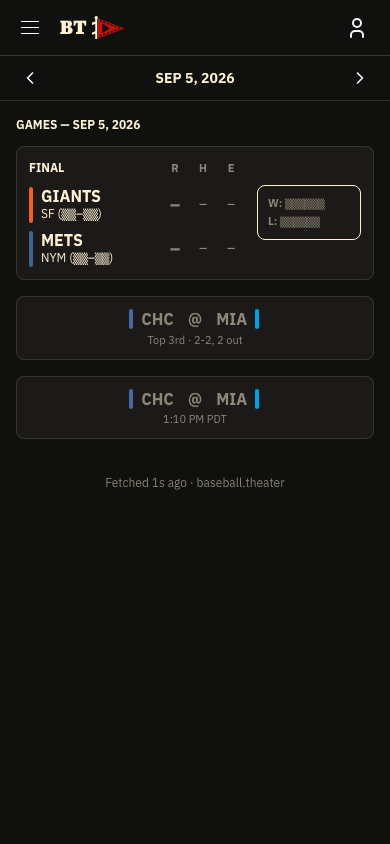
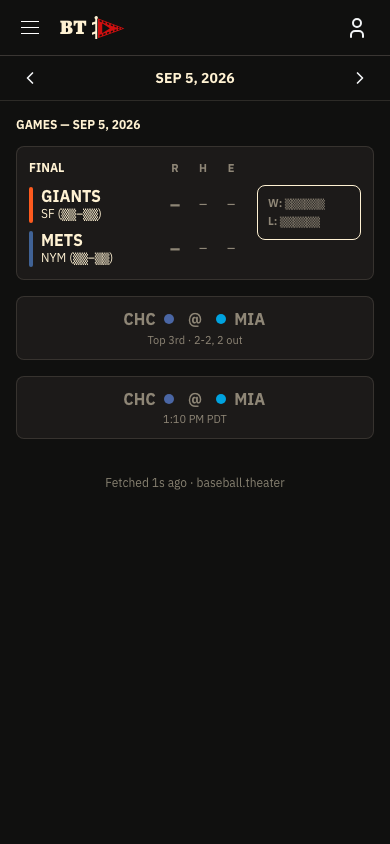
S68 checkpoint (parked for the owner's design match): the collapsed bar's team colors become round swatches inside, by the score (owner, 2026-10-30: "I think I'd like to change the color border in that view into a circle that goes on the inside instead of the outside. like CHC o 1-0 o MIA"). Collaps
Claude-Session: https://claude.ai/code/session_01FZHj4BTD58DQYzKRj8jroB

diff --git a/web/src/components/scoreboard/CollapsedBar.tsx b/web/src/components/scoreboard/CollapsedBar.tsx
@@ -6,26 +6,26 @@ import {
 } from "@bt/domain";
 import { viewerTimeZone } from "../../format/datetime.js";
 import { useScoresHidden } from "../../settings/useScoresHidden.js";
-import { TeamEdge } from "../team/TeamEdge.js";
+import { TeamSwatch } from "../team/TeamSwatch.js";
 import type { ScoreboardGame } from "./ScoreboardModule.js";
 
-/** A team in the bar: its abbreviation with its color swatch on the outer side. */
+/** A team in the bar: its abbreviation with its round color swatch on the inner side, toward the score (owner, 2026-10-30: "CHC o 1-0 o MIA"). */
 function Team({ team, side }: { team: ScoreboardGame["teams"]["away"];
 	side: "away" | "home"; })
 {
 	return (
 		<Group gap={8} wrap="nowrap" h={20} justify={side === "away" ? "flex-end" : "flex-start"}>
-			{side === "away" ? <TeamEdge teamId={team.id} /> : null}
+			{side === "home" ? <TeamSwatch teamId={team.id} /> : null}
 			<Text fw={700} c="var(--bt-muted)">{team.abbreviation}</Text>
-			{side === "home" ? <TeamEdge teamId={team.id} /> : null}
+			{side === "away" ? <TeamSwatch teamId={team.id} /> : null}
 		</Group>
 	);
 }
 
 /**
  * A non-favorite game folded into a slim bar (S68; shell-scoreboard `scoreboard-collapsed-*`,
- * S56 A2, S57 A3), centered in every state (owner, 2026-10-30): `NYY  5–2  BOS`, the
- * teams either side of the score with their color swatches outside, and a muted line
+ * S56 A2, S57 A3), centered in every state (owner, 2026-10-30): `NYY ● 5–2 ● BOS`, the
+ * teams either side of the score with their round color swatches inside, by the score, and a muted line
  * under it — the inning and count while live, `Final` after, the start time before first
  * pitch. With scores hidden, or before any runs, `@` stands where the score would. What
  * it says comes from `collapsedBarState` (`packages/domain`), whose inning reads through

diff --git a/web/src/components/scoreboard/CollapseHide.test.tsx b/web/src/components/scoreboard/CollapseHide.test.tsx
@@ -129,9 +129,11 @@ describe("collapse non-favorites (S68)", () =>
 		expect(modules.map((m) => m.dataset.phase)).toEqual(["live", "pregame"]);
 		const [bar] = screen.getAllByTestId("collapsed-bar");
 		const b = within(bar!);
-		expect(b.getAllByTestId("team-edge")).toHaveLength(2);
-		expect(b.getByText("SF")).toBeInTheDocument();
-		expect(b.getByText("NYM")).toBeInTheDocument();
+		// Round swatches inside, by the score (owner, 2026-10-30: "like CHC o 1-0 o MIA").
+		const order = [b.getByText("SF"), ...b.getAllByTestId("team-swatch"), b.getByText("NYM")];
+		order.slice(1).forEach((node, i) => expect(order[i]!.compareDocumentPosition(node) & Node.DOCUMENT_POSITION_FOLLOWING).toBeTruthy());
+		expect(b.getByTestId("collapsed-score").compareDocumentPosition(order[2]!) & Node.DOCUMENT_POSITION_FOLLOWING).toBeTruthy();
+		expect(b.getByTestId("collapsed-score").compareDocumentPosition(order[1]!) & Node.DOCUMENT_POSITION_PRECEDING).toBeTruthy();
 		expect(b.getByTestId("collapsed-score")).toHaveTextContent("9–5");
 		expect(b.getByTestId("collapsed-state")).toHaveTextContent(/^Final$/);
 	});

diff --git a/e2e/design/S68.spec.ts b/e2e/design/S68.spec.ts
@@ -12,7 +12,7 @@
  * - `scoreboard-collapsed-hidden-nonotice-mobile` (A3 + A4): both on.
  *
  * Owner-directed changes from the frames (2026-10-30): every collapsed bar is centered —
- * `CHC  1–0  MIA`, swatches outside, the inning and count (or Final, or the start time)
+ * `CHC ● 1–0 ● MIA`, round swatches inside, the inning and count (or Final, or the start time)
  * muted underneath — and at medium / desktop the favorite's module spans the row.
  *
  * Expected differences, not judged (owner, 2026-10-28: "Judge only the story's own

diff --git a/docs/v3/BACKLOG.md b/docs/v3/BACKLOG.md
@@ -4112,7 +4112,7 @@ Reuse `shipping_commit` and `reverify_at` from `scripts/lib/reverify.sh` and the
 **Acceptance criteria** (checks `scripts/verify-S68.sh` performs)
 
 1. `scoreboardRows(games, favoriteTeamIds, collapseNonFavorites)` in `packages/domain` marks non-favorite games collapsed; with no favorites nothing collapses (test).
-2. A collapsed bar is centered in every state: the away team (swatch, abbreviation), the score `{away}–{home}` (`@` before any runs or with scores hidden), the home team, and under it a muted line — the inning (S66's `inningLabel`) and the count while live, `Final` after, the start time before first pitch — and it expands to the full module on click (RTL). At medium and desktop, while any game is collapsed, a favorite's module spans the full row (RTL). (Amended by the owner, 2026-10-30: *"on desktop, when the collapsed mode is on, make the favorite one full-width. Also, the collapsed ones shoudl show the score (when it's not hidden) by centering the score with the teams on either side, like: NYY  5 - 2  BOS, with the BSO subtly under it. The collapsed ones should be centered for all states, with the subtle text under it rather than right-aligned."* It said: "A collapsed bar shows swatch, abbreviation and `{away}–{home} · {state}` (state from S66's `inningLabel`, or `Final`; S56 A2 `scoreboard-collapsed-score-mobile.png`) and expands to the full module on click (RTL).")
+2. A collapsed bar is centered in every state: the away team (abbreviation, round swatch), the score `{away}–{home}` (`@` before any runs or with scores hidden), the home team (round swatch, abbreviation) — the swatches inside, by the score — and under it a muted line — the inning (S66's `inningLabel`) and the count while live, `Final` after, the start time before first pitch — and it expands to the full module on click (RTL). At medium and desktop, while any game is collapsed, a favorite's module spans the full row (RTL). (Amended by the owner, 2026-10-30: *"on desktop, when the collapsed mode is on, make the favorite one full-width. Also, the collapsed ones shoudl show the score (when it's not hidden) by centering the score with the teams on either side, like: NYY  5 - 2  BOS, with the BSO subtly under it. The collapsed ones should be centered for all states, with the subtle text under it rather than right-aligned."* And: *"I think I'd like to change the color border in that view into a circle that goes on the inside instead of the outside. like CHC o 1-0 o MIA"* It said: "A collapsed bar shows swatch, abbreviation and `{away}–{home} · {state}` (state from S66's `inningLabel`, or `Final`; S56 A2 `scoreboard-collapsed-score-mobile.png`) and expands to the full module on click (RTL).")
 3. With Hide Scores on: R·H·E cells show `–`, records `▒▒-▒▒`, the final slot's pitchers of record (S67) show `W: ▒▒▒▒▒▒` / `L:` / `S:` while the live count, AB / P, probables and pregame win probability stay (shell-scoreboard A3), collapsed bars show swatches, `{AWY} @ {HOM}` and the state only (`Bot 7`, `Final`), and the module height is unchanged (RTL). No "Scores hidden in settings" text renders anywhere (shell-scoreboard A4; grep over `web/src`). One `HiddenValue` component renders the masks (grep).
 4. Whether scores are hidden comes from `shouldHideScores(settings, game?)` in `packages/domain`, which takes the game (when there is one) even though today's on/off setting ignores it (unit-tested on, off, and with and without a game). Web code asks through one hook, `useScoresHidden(game?)`, in `web/src/settings/`. Outside the settings store, the Settings toggle and that function, no file reads the Hide Scores setting itself (grep).
 5. Settings → Game List toggles for Collapse Non-Favorites and Hide Scores save to the account and update a mounted scoreboard without reload (test).

diff --git a/docs/v3/backlog/stories/S68.md b/docs/v3/backlog/stories/S68.md
@@ -53,7 +53,7 @@ scope_files:
 **Acceptance criteria** (checks `scripts/verify-S68.sh` performs)
 
 1. `scoreboardRows(games, favoriteTeamIds, collapseNonFavorites)` in `packages/domain` marks non-favorite games collapsed; with no favorites nothing collapses (test).
-2. A collapsed bar is centered in every state: the away team (swatch, abbreviation), the score `{away}–{home}` (`@` before any runs or with scores hidden), the home team, and under it a muted line — the inning (S66's `inningLabel`) and the count while live, `Final` after, the start time before first pitch — and it expands to the full module on click (RTL). At medium and desktop, while any game is collapsed, a favorite's module spans the full row (RTL). (Amended by the owner, 2026-10-30: *"on desktop, when the collapsed mode is on, make the favorite one full-width. Also, the collapsed ones shoudl show the score (when it's not hidden) by centering the score with the teams on either side, like: NYY  5 - 2  BOS, with the BSO subtly under it. The collapsed ones should be centered for all states, with the subtle text under it rather than right-aligned."* It said: "A collapsed bar shows swatch, abbreviation and `{away}–{home} · {state}` (state from S66's `inningLabel`, or `Final`; S56 A2 `scoreboard-collapsed-score-mobile.png`) and expands to the full module on click (RTL).")
+2. A collapsed bar is centered in every state: the away team (abbreviation, round swatch), the score `{away}–{home}` (`@` before any runs or with scores hidden), the home team (round swatch, abbreviation) — the swatches inside, by the score — and under it a muted line — the inning (S66's `inningLabel`) and the count while live, `Final` after, the start time before first pitch — and it expands to the full module on click (RTL). At medium and desktop, while any game is collapsed, a favorite's module spans the full row (RTL). (Amended by the owner, 2026-10-30: *"on desktop, when the collapsed mode is on, make the favorite one full-width. Also, the collapsed ones shoudl show the score (when it's not hidden) by centering the score with the teams on either side, like: NYY  5 - 2  BOS, with the BSO subtly under it. The collapsed ones should be centered for all states, with the subtle text under it rather than right-aligned."* And: *"I think I'd like to change the color border in that view into a circle that goes on the inside instead of the outside. like CHC o 1-0 o MIA"* It said: "A collapsed bar shows swatch, abbreviation and `{away}–{home} · {state}` (state from S66's `inningLabel`, or `Final`; S56 A2 `scoreboard-collapsed-score-mobile.png`) and expands to the full module on click (RTL).")
 3. With Hide Scores on: R·H·E cells show `–`, records `▒▒-▒▒`, the final slot's pitchers of record (S67) show `W: ▒▒▒▒▒▒` / `L:` / `S:` while the live count, AB / P, probables and pregame win probability stay (shell-scoreboard A3), collapsed bars show swatches, `{AWY} @ {HOM}` and the state only (`Bot 7`, `Final`), and the module height is unchanged (RTL). No "Scores hidden in settings" text renders anywhere (shell-scoreboard A4; grep over `web/src`). One `HiddenValue` component renders the masks (grep).
 4. Whether scores are hidden comes from `shouldHideScores(settings, game?)` in `packages/domain`, which takes the game (when there is one) even though today's on/off setting ignores it (unit-tested on, off, and with and without a game). Web code asks through one hook, `useScoresHidden(game?)`, in `web/src/settings/`. Outside the settings store, the Settings toggle and that function, no file reads the Hide Scores setting itself (grep).
 5. Settings → Game List toggles for Collapse Non-Favorites and Hide Scores save to the account and update a mounted scoreboard without reload (test).
